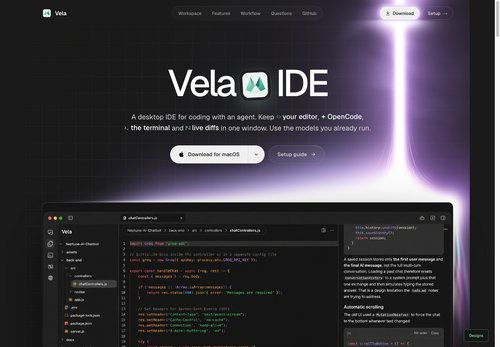
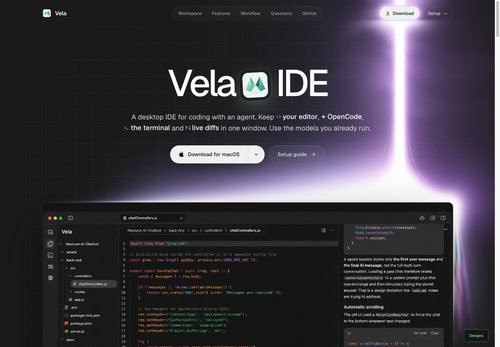
design: align the beam layer with the full viewport

Changed region(s): [[0.93, 0.1441, 0.99, 0.951]]

diff --git a/design/vela-product/cloudroom/openbot-beam.css b/design/vela-product/cloudroom/openbot-beam.css
@@ -5,11 +5,12 @@ body.d1 main {
 body.d1 .ob-beam-canvas {
   position: absolute;
   top: -76px;
-  left: 0;
+  left: 50%;
   z-index: 0;
-  width: 100%;
+  width: 100vw;
   height: calc(100% + 76px);
   pointer-events: none;
+  transform: translateX(-50%);
 }
 
 [data-beam-source] {
